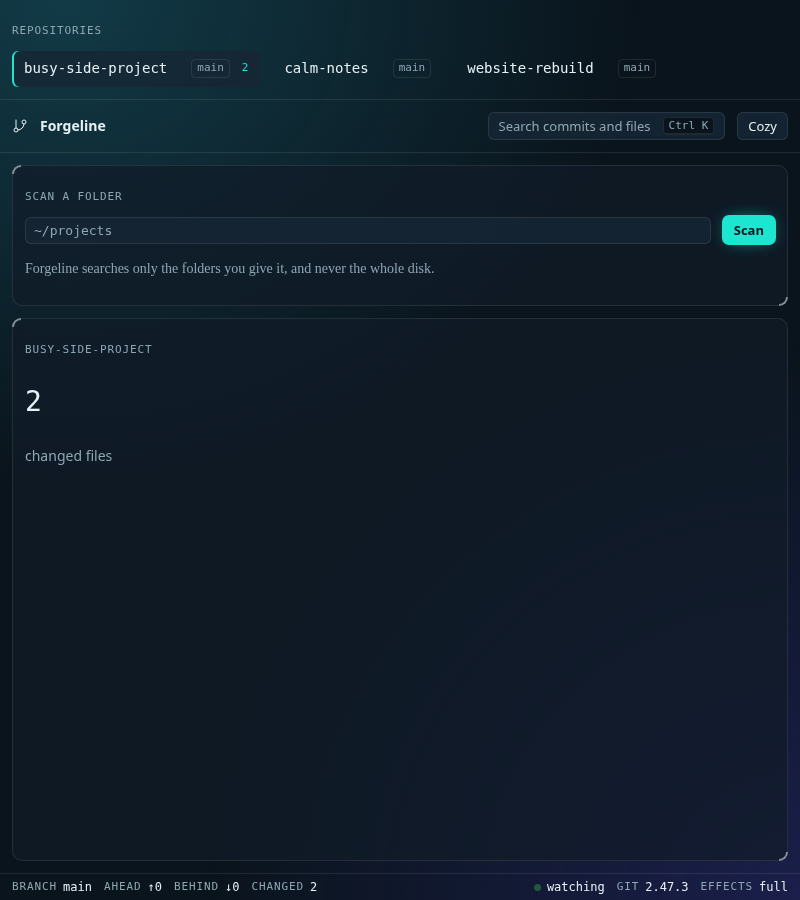
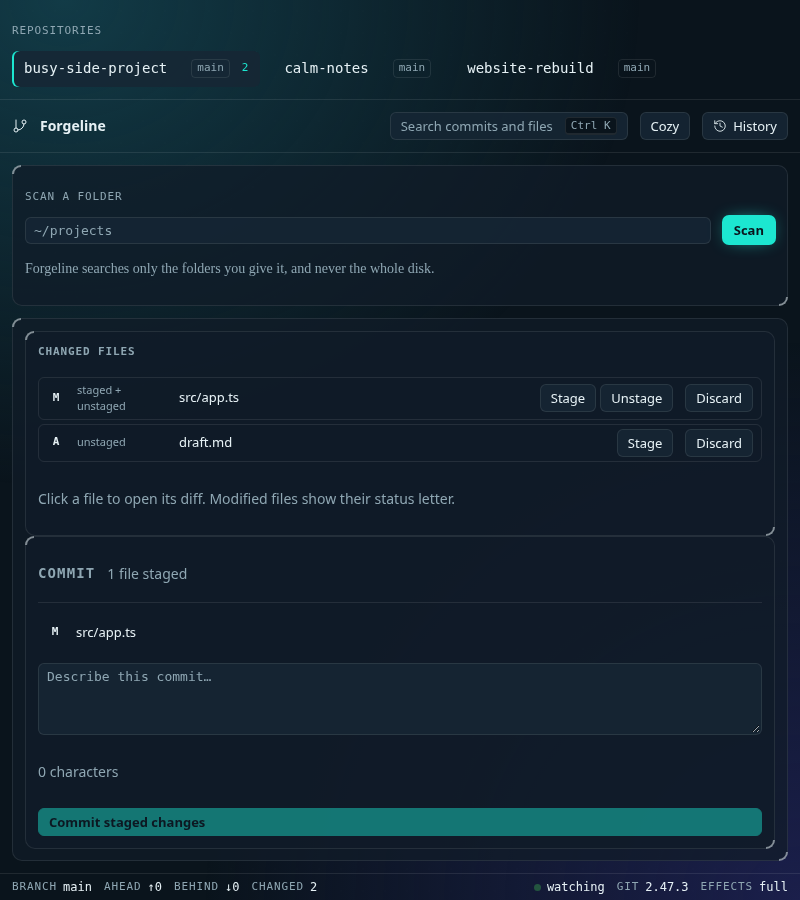
docs: refresh the design screenshots for the Milestone 4 UI
The toolbar gained a History button and the workbench gained an Undo
timeline panel, so every existing screenshot was one control out of date.

The capture script now also takes a shot with the Undo timeline open,
because it is the feature this milestone exists for and a journal nobody
has seen is indistinguishable from one that does not exist. It is captured
last, so the journal holds earlier actions from the session instead of
being empty, and it reaches the timeline by actually discarding a change
through the UI rather than seeding one.

Eight shots, all under 1 MB, none reporting a console error or a failed
request. The README's Status section was stale in the same way it was
after Milestone 3 — it still listed the Undo timeline and snapshots as
not existing — so it now describes what is built and what is not, and
carries the new screenshot.

diff --git a/README.md b/README.md
@@ -76,20 +76,28 @@ flat). Effects Off forces Solid and removes all motion.
 
 ## Status
 
-**Early. Milestones 1–3 are complete; Milestone 4 is in progress.** What works
-today: the dashboard discovers repositories in folders you pick and shows live
-branch, changed-file, and ahead/behind counts, pushed over a local stream as
-files change. The commit flow works end to end — you can see what changed, stage
+**Early. Milestones 1–4 are complete.** What works today: the dashboard
+discovers repositories in folders you pick and shows live branch,
+changed-file, and ahead/behind counts, pushed over a local stream as files
+change. The commit flow works end to end — you can see what changed, stage
 and unstage whole files or individual hunks, read both staged and unstaged
 diffs, and commit with a sanity-check card that names every staged file before
-anything is written. Every mutating action is recorded in an action journal
-stored in your OS app-data folder, never inside a repository, and every action
-can show the exact git command behind it.
+anything is written. Discarding local changes takes a snapshot first.
 
-What does not exist yet: the Undo timeline, snapshots, rescue mode, and
-confirmation previews. Branches, history, conflicts, and remotes are not built
-either. No control is drawn for a feature that is not built, so nothing is a
-dead button.
+Safety is built: every action that changes a repo is written to an action
+journal in your OS app-data folder and never inside a repository, an Undo
+timeline lists those actions newest first with the exact git command behind a
+toggle, and an Undo button appears only where recovery has been proven by
+tests. Rescue mode snapshots, parks HEAD under a private backup ref so no
+local commit is lost, then resets the repo to a clean tree.
+
+What does not exist yet: branches, stash, history, conflicts, remotes, the
+error translator, and the release manager. No control is drawn for a feature
+that is not built, so nothing is a dead button.
+
+**The Undo timeline**, with the saved snapshot and the command behind it:
+
+![Undo timeline](screenshots/design/lagoon-journal-open.png)
 
 The package has **not** been published to npm, and the name `forgeline` has
 not been checked for availability. Do not treat it as installable yet.
